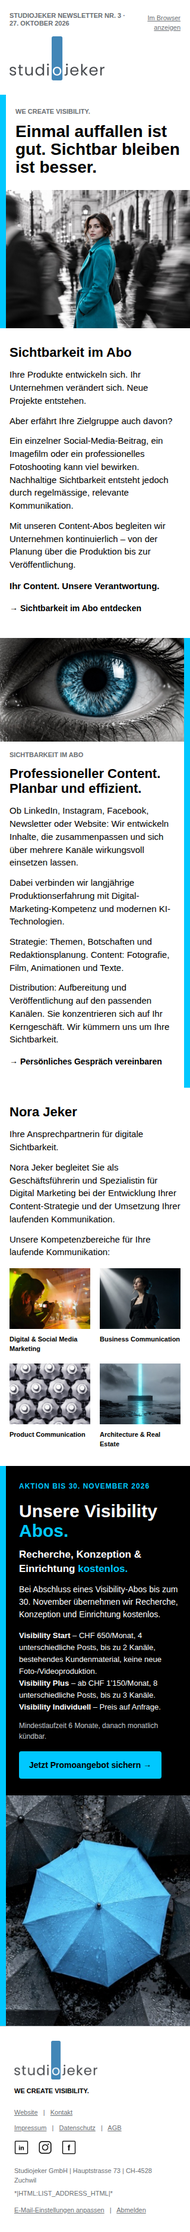
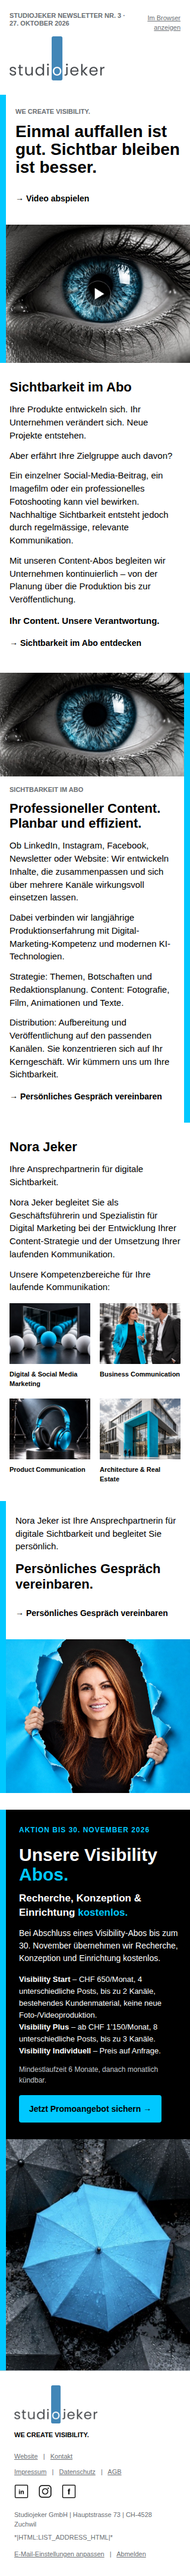
docs(mailchimp): refresh Newsletter V3 previews after Issue #261 fixes
Chromium captures at 700/390/320, URL checks, and FINAL_REVIEW for the
Nora contact block, V2 service images, and showreel hero alignment.

diff --git a/mailchimp/newsletter03/FINAL_REVIEW.md b/mailchimp/newsletter03/FINAL_REVIEW.md
@@ -1,7 +1,7 @@
 # Studiojeker Newsletter V3 – Visibility Final
 
 Versanddatei: `mailchimp/studiojeker-newsletter-03-visibility-final.html`  
-Basis: PR #254 (`studiojeker-newsletter-03-visibility-final-20261027.html`)  
+Issue: #261  
 Stand: 27. Oktober 2026
 
 ## Vorschauen
@@ -12,52 +12,31 @@ Stand: 27. Oktober 2026
 | 390 px (Mobile) | [final-mobile.png](previews/final-mobile.png) |
 | 320 px (kleines Smartphone) | [final-320.png](previews/final-320.png) |
 
-## Promo-Bereich (freigegeben)
+## Korrekturen gemäss Issue #261
 
-- Headline: Unsere Visibility Abos.
-- Aktionshinweis: AKTION BIS 30. NOVEMBER 2026
-- Hauptbotschaft: Recherche, Konzeption & Einrichtung kostenlos.
-- Visibility Start: CHF 650/Monat, 4 unterschiedliche Posts, bis zu 2 Kanäle, bestehendes Kundenmaterial, keine neue Foto-/Videoproduktion.
-- Visibility Plus: ab CHF 1’150/Monat, 8 unterschiedliche Posts, bis zu 3 Kanäle.
-- Visibility Individuell: Preis auf Anfrage.
-- Bedingungen: Mindestlaufzeit 6 Monate, danach monatlich kündbar.
-- CTA: Jetzt Promoangebot sichern → `https://www.studiojeker.ch/content-abo/`
-- Kein Gratismonat / kein kostenloser erster Abo-Monat.
+1. **Nora-Kontaktblock (separat):** Ansprechpartnerinnen-Modul mit freigegebenem V2-Nora-Porträt  
+   `…/7361ce0…/mailchimp/visibility-update/assets/nora-cyan-tall.jpg`  
+   Nicht im Promo-Block.
+2. **Vier Bereichsfotos + Links:** exakt wie finale Newsletter V2 (`visibility-update/assets/{digital,business,product,architecture}.jpg` @ `476a194…`), Links unverändert auf `/services/…`.
+3. **Hero → Video:** V2-Showreel-Motiv mit Playbutton, Klickfläche und Textlink «→ Video abspielen» auf `https://www.studiojeker.ch/#home-showreel-title`.
+4. **Promo unverändert beibehalten:** Regenschirmfoto, Schwarz/Weiss/Cyan `#00c8ff`, Visibility-Abos, kostenlose Recherche/Konzeption/Einrichtung bis 30.11.2026, Start CHF 650 / Plus ab CHF 1’150 / Individuell, 6 Monate Mindestlaufzeit, kein Gratismonat, CTA `/content-abo/`.
 
-## Regenschirmfoto
+## Erhalten
 
[1 lines of base64/hex data omitted]
-- Mechanischer 4:5-Zuschnitt ohne Farbänderung: `assets/umbrella-cyan.jpg` (640×800).
-- Öffentliche commitgebundene URL:  
-  `https://raw.githubusercontent.com/mjeker99-collab/studiojeker-website/eaf48c8a43824025396c65bcd01ae8c2b4d2c34b/mailchimp/newsletter03/assets/umbrella-cyan.jpg`
-- Google-Drive-Thumbnail vollständig entfernt.
-- Nora-Porträt erscheint nicht im Promo-Bereich.
-
-## Layout
-
-- Schwarz `#000000`, Weiss `#FFFFFF`, Cyan `#00c8ff`
-- Arial/Helvetica, max. 700 px
-- Text links, Regenschirmfoto rechts (Mobile gestapelt)
-- Keine Textüberlagerung auf Bildern
-- Mailchimp-Merge-Tags (`ARCHIVE`, `HTML:LIST_ADDRESS_HTML`, `UPDATE_PROFILE`, `UNSUB`), Footer, Logo und bestehende Links erhalten
+Mailchimp-Merge-Tags (`ARCHIVE`, `HTML:LIST_ADDRESS_HTML`, `UPDATE_PROFILE`, `UNSUB`), Footer, Logo und übrige redaktionelle Bereiche.
 
 ## Prüfungen
 
-Chromium/Playwright bei 700 / 390 / 320 px (`responsive-final-checks.json`):
+Chromium/Playwright 700 / 390 / 320 (`responsive-final-checks.json`):
 
-- Alle 13 Bilder geladen, inkl. Regenschirmfoto
+- 14 Bilder geladen (Hero, Nora, 4 Bereiche, Regenschirm, Logos/Icons)
 - Kein horizontaler Überlauf
-- Kein Nora-Motiv im Promo-Block
-- CTA und Promo-Texte lesbar
+- 2 Showreel-Links aktiv
+- Nora nicht im Promo
 
-URL-Prüfung (`url-final-checks.json`): 26/26 Ziele erreichbar (HTTP 200), inkl. `/content-abo/`, Kontakt, Service-Seiten, Social-Icons und sämtliche Bildquellen.
+URL-Prüfung (`url-final-checks.json`): 28/28 Ziele HTTP 200.
 
 ## Versand
 
-Datei ist für den direkten Mailchimp-Import (Code your own / Import HTML) vorbereitet.  
-Kein Versand und keine Mailchimp-Kampagne ohne ausdrückliche Freigabe.
-
-## Bekannte Grenzen
-
-- Keine Litmus-/Email-on-Acid-Clientprüfung und keine echte Mailchimp-Testsendung in dieser Runde.
-- Merge-Tag-Auflösung und Abmeldelink erfordern eine Mailchimp-Testmail vor dem Live-Versand.
+Bereit für direkten Mailchimp-HTML-Import.  
+Kein Versand ohne ausdrückliche Freigabe. Vor Live-Versand: Mailchimp-Testmail (Clients + Merge-Tags).
